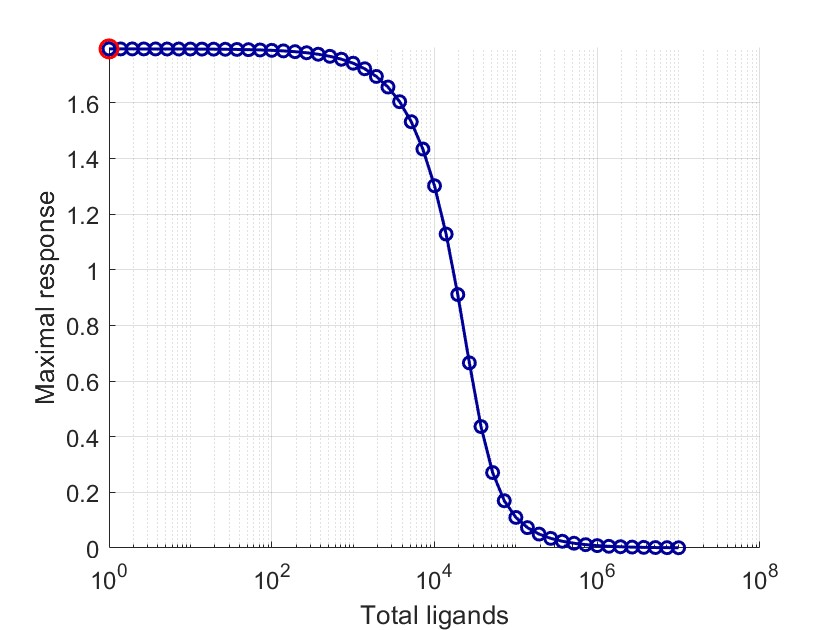
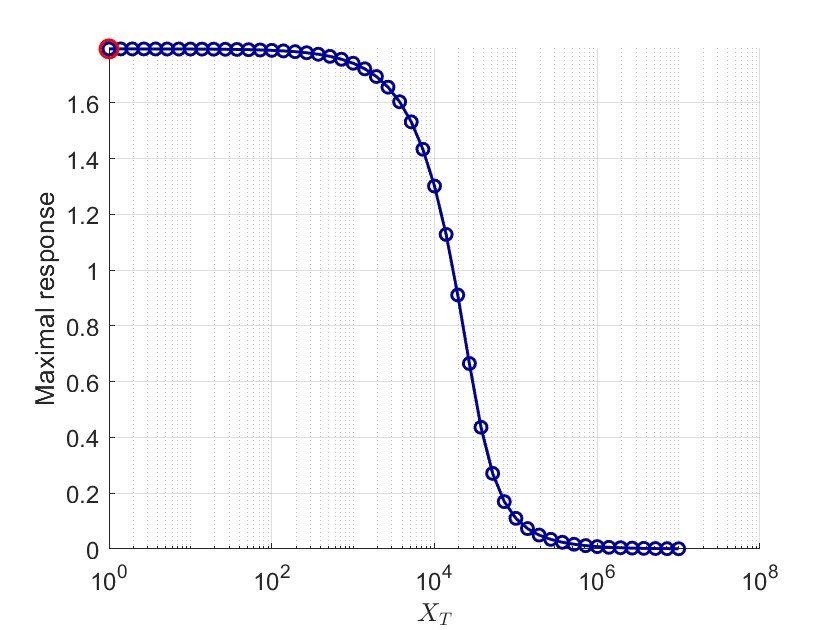
n

diff --git a/Sensitivity Analysis/Comprobaciones/KPC_Emax.m b/Sensitivity Analysis/Comprobaciones/KPC_Emax.m
@@ -235,7 +235,7 @@ end
 
 figure;
 semilogx(x0_values, max_Tp_values, '-o', 'LineWidth',1.5, 'MarkerSize',6, 'Color',[0 0 0.6]);
-xlabel('Total ligands','FontSize',12,'FontName','Helvetica');
+xlabel('$X_{T}$','Interpreter','latex','FontSize',14,'FontName','Helvetica');
 ylabel('Maximal response','FontSize',12,'FontName','Helvetica');
 grid on;
 set(gca, 'FontSize',12, 'FontName','Helvetica');
@@ -254,7 +254,7 @@ figure;
 % Primer eje (izquierda) - primera variable
 yyaxis left
 semilogx(x0_values, max_Tp_values, '-o', 'LineWidth', 1.5, 'MarkerSize', 6, 'Color', [0 0 0.6]);
-xlabel('Total ligands','FontSize',12,'FontName','Helvetica');
+xlabel('$X_{T}$','Interpreter','latex','FontSize',14,'FontName','Helvetica');
 ylabel('Maximal response','FontSize',12,'FontName','Helvetica');
 set(gca, 'FontSize',12, 'FontName','Helvetica');
 box off;
@@ -287,7 +287,7 @@ hold on
 
 figure;
 semilogx(x0_values, max_CT_values, '-o', 'LineWidth',1.5,'MarkerSize',6,'Color',[0 0 0.6]);
-xlabel('Total ligands','FontSize',12,'FontName','Helvetica');
+xlabel('$X_{T}$','Interpreter','latex','FontSize',14,'FontName','Helvetica');
 ylabel('$\widehat{C_T}$','Interpreter','latex','FontSize',14,'FontName','Helvetica');
 set(gca,'FontSize',12,'FontName','Helvetica');
 grid on;
@@ -353,7 +353,7 @@ grid on
 hold on
 
 figure;
-plot(tfinal, XtMax, '-o', 'LineWidth',1.5,'MarkerSize',5,'Color',[0.1 0.3 0.6]);
+plot(tfinal, XtMax, '-o', 'LineWidth',1.5,'MarkerSize',5,'Color',[0 0 0.6]);
 xlabel('Time','FontSize',12,'FontName','Helvetica');
 ylabel('$X_{T}$','Interpreter','latex','FontSize',14,'FontName','Helvetica');
 set(gca,'FontSize',12,'FontName','Helvetica');
